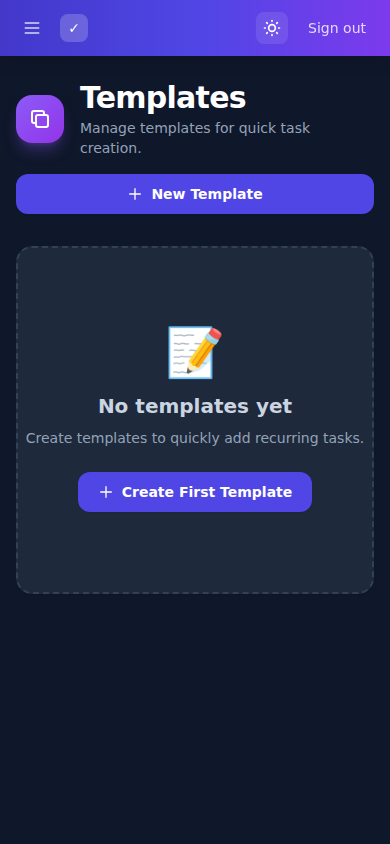
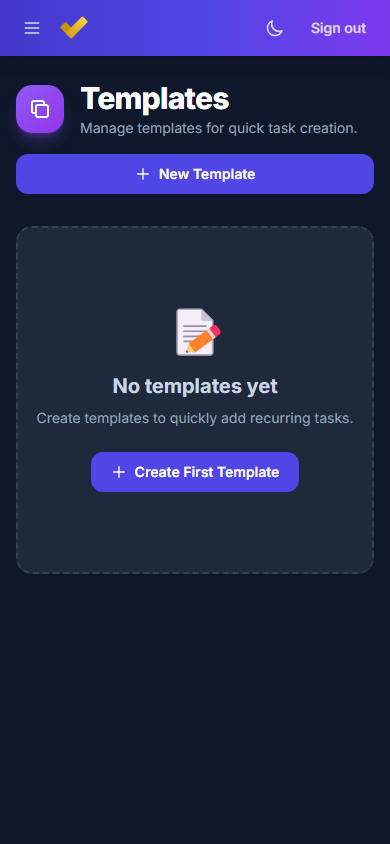
Refresh all Playwright screenshots with isolated database
- Captured 28 screenshots (7 views × 2 themes × 2 viewports) using clean
  isolated DB to exclude local user data from docs
- Fixed ScreenshotCaptureTest: use JS DOM manipulation for dark mode toggle
  (Blazor Server circuit delay made @onclick unreliable), updated home page
  wait selector (h3 not h2/p)
- Copied 4 PWA dark-theme screenshots to wwwroot/screenshots/
- Manifest sizes verified: 1280x800 desktop, 390x844 mobile (unchanged)

diff --git a/tests/TodoExtended.E2E/ScreenshotCaptureTest.cs b/tests/TodoExtended.E2E/ScreenshotCaptureTest.cs
@@ -1,0 +1,180 @@
+using Microsoft.Playwright;
+using Microsoft.Playwright.NUnit;
+using NUnit.Framework;
+
+namespace TodoExtended.E2E;
+
+/// <summary>
+/// Captures viewport screenshots of every app view across two themes (light/dark)
+/// and two viewports (desktop 1280×800, mobile 390×844).
+/// Output lands in docs/screenshots/ at the repo root.
+/// Requires the app running with Demo__Enabled=true.
+/// </summary>
+[Parallelizable(ParallelScope.Self)]
+[TestFixture]
+public class ScreenshotCaptureTest : PageTest
+{
+    private string BaseUrl => Environment.GetEnvironmentVariable("E2E_BASE_URL") ?? "http://localhost:5000";
+
+    // Repo root: test project is at tests/TodoExtended.E2E/ → go up 3 from bin/Debug/net10.0/
+    private static string RepoRoot => Path.GetFullPath(Path.Combine(AppContext.BaseDirectory, "..", "..", "..", "..", ".."));
+    private static string ScreenshotsDir => Path.Combine(RepoRoot, "docs", "screenshots");
+
+    private record ViewportSpec(string Name, int Width, int Height);
+    private record PageSpec(string ViewName, string RelativeUrl, string WaitSelector);
+
+    private static readonly ViewportSpec[] Viewports =
+    [
+        new("desktop", 1280, 800),
+        new("mobile", 390, 844),
+    ];
+
+    private static readonly PageSpec[] Pages =
+    [
+        new("home", "/", "h2:has-text('Quick Create'), h3:has-text('No templates yet')"),
+        new("today", "/today", "h1:has-text('Today')"),
+        new("tasks", "/tasks", "h1:has-text('Tasks'), h2:has-text('Pick a list')"),
+        new("templates", "/templates", "h1:has-text('Templates')"),
+        new("sync-settings", "/sync-settings", "h1:has-text('Sync Settings')"),
+        new("api-keys", "/api-keys", "h1:has-text('API Keys')"),
+    ];
+
+    [Test]
+    public async Task CaptureAllViewScreenshots()
+    {
+        Directory.CreateDirectory(ScreenshotsDir);
+
+        // Sign in via demo mode
+        await SignInViaDemoAsync();
+
+        foreach (var page in Pages)
+        {
+            foreach (var theme in new[] { "dark", "light" })
+            {
+                foreach (var vp in Viewports)
+                {
+                    try
+                    {
+                        await CaptureScreenshotAsync(page, theme, vp);
+                    }
+                    catch (Exception ex)
+                    {
+                        TestContext.WriteLine($"[WARN] Failed: {page.ViewName}--{vp.Name}-{theme}: {ex.Message}");
+                    }
+                }
+            }
+        }
+
+        // Attempt templates-dialog screenshots
+        await CaptureTemplatesDialogScreenshots();
+    }
+
+    private async Task SignInViaDemoAsync()
+    {
+        await Page.GotoAsync(BaseUrl);
+
+        var demoButton = Page.GetByRole(AriaRole.Link, new() { Name = "Try Demo" });
+        await Expect(demoButton).ToBeVisibleAsync(new() { Timeout = 15_000 });
+        await demoButton.ClickAsync();
+
+        // Wait for authenticated state
+        await Expect(Page.GetByRole(AriaRole.Link, new() { Name = "Sign out" }))
+            .ToBeVisibleAsync(new() { Timeout = 15_000 });
+    }
+
+    private async Task CaptureScreenshotAsync(PageSpec spec, string theme, ViewportSpec vp)
+    {
+        // Set viewport
+        await Page.SetViewportSizeAsync(vp.Width, vp.Height);
+
+        // Navigate
+        await Page.GotoAsync($"{BaseUrl}{spec.RelativeUrl}", new() { WaitUntil = WaitUntilState.NetworkIdle });
+
+        // Wait for content to appear
+        await Page.Locator(spec.WaitSelector).First.WaitForAsync(new() { State = WaitForSelectorState.Visible, Timeout = 10_000 });
+
+        // Set theme
+        await SetThemeAsync(theme);
+
+        // Brief settle time for layout/animations
+        await Page.WaitForTimeoutAsync(500);
+
+        var fileName = $"{spec.ViewName}--{vp.Name}-{theme}.png";
+        await Page.ScreenshotAsync(new()
+        {
+            Path = Path.Combine(ScreenshotsDir, fileName),
+        });
+
+        TestContext.WriteLine($"[OK] {fileName}");
+    }
+
+    private async Task SetThemeAsync(string theme)
+    {
+        bool wantDark = theme == "dark";
+
+        // Directly toggle the Tailwind dark mode class via JavaScript for reliability.
+        // The Blazor Server circuit may not be connected yet, making @onclick unreliable.
+        // For screenshot purposes, the visual appearance is what matters.
+        await Page.EvaluateAsync(@$"() => {{
+            const root = document.body.querySelector('div');
+            if (root) {{
+                if ({(wantDark ? "true" : "false")}) {{
+                    root.classList.add('dark');
+                }} else {{
+                    root.classList.remove('dark');
+                }}
+            }}
+        }}");
+        await Page.WaitForTimeoutAsync(300);
+    }
+
+    private async Task CaptureTemplatesDialogScreenshots()
+    {
+        foreach (var theme in new[] { "dark", "light" })
+        {
+            foreach (var vp in Viewports)
+            {
+                try
+                {
+                    // Navigate fresh each time to avoid stale Blazor state
+                    await Page.SetViewportSizeAsync(vp.Width, vp.Height);
+                    await Page.GotoAsync($"{BaseUrl}/templates", new() { WaitUntil = WaitUntilState.NetworkIdle });
+                    await Page.Locator("h1:has-text('Templates')").First.WaitForAsync(new() { State = WaitForSelectorState.Visible, Timeout = 10_000 });
+
+                    // Set theme before opening dialog
+                    await SetThemeAsync(theme);
+                    await Page.WaitForTimeoutAsync(500);
+
+                    // Wait for Blazor circuit so button clicks work
+                    await Page.WaitForTimeoutAsync(3_000);
+
+                    // Open dialog
+                    var newButton = Page.Locator("button:has-text('New Template')");
+                    if (await newButton.CountAsync() == 0)
+                    {
+                        TestContext.WriteLine("[WARN] No 'New Template' button found — skipping templates-dialog screenshots.");
+                        return;
+                    }
+
+                    await newButton.First.ClickAsync();
+
+                    // Wait for dialog modal
+                    var dialogLocator = Page.Locator("div.fixed.inset-0.z-50");
+                    await dialogLocator.First.WaitForAsync(new() { State = WaitForSelectorState.Visible, Timeout = 5_000 });
+                    await Page.WaitForTimeoutAsync(500);
+
+                    var fileName = $"templates-dialog--{vp.Name}-{theme}.png";
+                    await Page.ScreenshotAsync(new()
+                    {
+                        Path = Path.Combine(ScreenshotsDir, fileName),
+                    });
+                    TestContext.WriteLine($"[OK] {fileName}");
+                }
+                catch (Exception ex)
+                {
+                    TestContext.WriteLine($"[WARN] Failed: templates-dialog--{vp.Name}-{theme}: {ex.Message}");
+                }
+            }
+        }
+    }
+}

diff --git a/.squad/agents/tester/history.md b/.squad/agents/tester/history.md
@@ -24,3 +24,12 @@
 - **Screenshot output:** `docs/screenshots/` (repo root) for all 28 screenshots. 4 dark-theme screenshots also copied to `src/TodoExtended.Web/wwwroot/screenshots/` for PWA manifest.
 - **Manifest:** `wwwroot/manifest.json` screenshots array references 4 files with sizes matching viewport dimensions exactly (1280x800 desktop, 390x844 mobile).
 - **Running:** App must be started with `Demo__Enabled=true` env var on `http://localhost:5000`. Install Playwright browsers via `pwsh .../playwright.ps1 install chromium`.
+
+### Screenshot DB Isolation (2026-03-10)
+
+- **Isolated DB:** Use `ConnectionStrings__DefaultConnection=Data Source=../../artifacts/todoextended-screenshots.db` env var to avoid polluting the real user database with demo data cached by `CachedTodoService`.
+- **Environment:** Must use `ASPNETCORE_ENVIRONMENT=Development` (not a custom environment) — `MapStaticAssets()` serves 0-byte CSS files in non-Development environments, producing unstyled screenshots.
+- **Launch profile:** Use `dotnet run --no-launch-profile --urls http://localhost:5000` to prevent `launchSettings.json` from overriding env vars.
+- **Dark mode toggle:** Blazor Server's `@onclick` handler requires the WebSocket circuit to be connected, which can take several seconds after page load. The test now toggles dark mode via direct JavaScript DOM manipulation (`root.classList.add('dark')`) instead of clicking the Blazor toggle button — reliable for screenshot purposes.
+- **Home page selector:** The authenticated home page shows `<h3>No templates yet</h3>` (not `<h2>` or `<p>`), so the wait selector was updated to `h2:has-text('Quick Create'), h3:has-text('No templates yet')`.
+- **Cleanup:** Always delete `artifacts/todoextended-screenshots.db*` after the test run to avoid stale data.

diff --git a/.squad/decisions/inbox/tester-screenshot-db-isolation.md b/.squad/decisions/inbox/tester-screenshot-db-isolation.md
@@ -1,0 +1,31 @@
+# Decision: Screenshot DB Isolation for E2E Tests
+
+**Date:** 2026-03-10  
+**Author:** Tester  
+**Status:** Implemented
+
+## Context
+
+The Playwright screenshot capture test (`ScreenshotCaptureTest.cs`) runs the app in demo mode, which uses `CachedTodoService` to cache demo data into SQLite. Without isolation, this pollutes the developer's local `todoextended.db` with demo task lists and tasks.
+
+## Decision
+
+Use a **separate SQLite database** for screenshot capture via the `ConnectionStrings__DefaultConnection` environment variable:
+
+```
+ConnectionStrings__DefaultConnection=Data Source=../../artifacts/todoextended-screenshots.db
+```
+
+**Critical constraints discovered:**
+1. **Must use `Development` environment** — `MapStaticAssets()` serves 0-byte CSS files in non-Development environments, producing unstyled screenshots
+2. **Must use `--no-launch-profile`** — `launchSettings.json` overrides `ASPNETCORE_ENVIRONMENT` when using `dotnet run`
+3. **Must clean up after** — delete `todoextended-screenshots.db*` to avoid stale cached demo data
+
+## Dark Mode Toggle
+
+The Blazor Server `@onclick` handler for theme toggling requires a connected WebSocket circuit, which takes several seconds after page load. The test now uses **direct JavaScript DOM manipulation** (`root.classList.add('dark')`) instead of clicking the Blazor toggle button. This is reliable for screenshot purposes since only the visual state matters.
+
+## Impact
+
+- Modified: `tests/TodoExtended.E2E/ScreenshotCaptureTest.cs` — JS-based theme toggle, updated home page selector
+- No production code changes required
